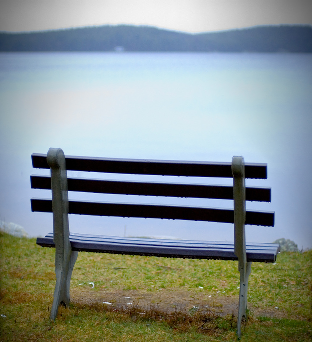
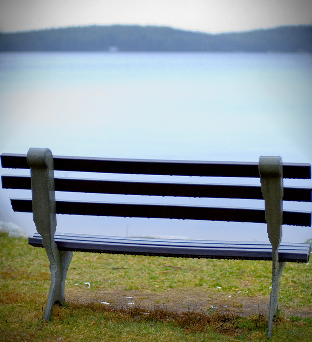
change to L2 gradient, add multistep enlarge

diff --git a/enlarge.py b/enlarge.py
@@ -1,15 +1,7 @@
 import cv2
 import time
 import numpy as np
-from resize import find_seam
-
-def calculate_energy(image):
-    """計算圖像的能量圖，使用 Sobel 算子計算梯度幅值"""
-    gray = cv2.cvtColor(image, cv2.COLOR_BGR2GRAY)
-    sobel_x = cv2.Sobel(gray, cv2.CV_64F, 1, 0, ksize=3)
-    sobel_y = cv2.Sobel(gray, cv2.CV_64F, 0, 1, ksize=3)
-    energy = np.abs(sobel_x) + np.abs(sobel_y)
-    return energy
+from resize import find_seam, show_seam, calculate_energy, compute_energyMap
 
 def add_seams(image, seams):
     """Add multiple seams to the image based on the provided list of seams."""
@@ -17,10 +9,11 @@ def add_seams(image, seams):
     enlarged = np.zeros((rows, cols + len(seams), channels), dtype=image.dtype)
 
     new_seams = np.array([seams.pop()])
+    
     for s in reversed(seams): 
         new_seams[np.where(new_seams >= s)] += 1
         new_seams = np.append(new_seams, s.reshape((1, -1)), axis=0) 
-    
+    # show_seam(image, new_seams)
     for i in range(rows):
         # Sort seams for this row to maintain the correct order of duplication
         sorted_seams = sorted(new_seams, key=lambda x: x[i])
@@ -45,7 +38,7 @@ def find_multiple_seams(image, num_seams):
     seams = []
     temp_image = image.copy()
     for _ in range(num_seams):
-        energy_map = calculate_energy(temp_image)
+        energy_map = compute_energyMap(temp_image)
         seam = find_seam(energy_map)
         seams.append(seam)
         # Remove the seam from the temporary image to avoid selecting the same seam repeatedly
@@ -66,14 +59,20 @@ def remove_seam(image, seam):
 
 def enlarge_image(image, num_seams):
     """Enlarge the image by finding and duplicating multiple seams."""
-
+    h, w, c = image.shape
+    threshold = int(np.floor(w * 0.2))
     # Find multiple seams for removal
-    start = time.time()
-    seams = find_multiple_seams(image, num_seams)
-    print('Time used: {} sec to find multiple seams'.format(time.time() - start))
-    start = time.time()
-    # Add the seams back to enlarge the image
-    enlarged_image = add_seams(image, seams)
-    print('Time used: {} sec to add seams'.format(time.time() - start))
+    
+    while num_seams > 0:
+        start = time.time()
+        x = min(threshold, num_seams)
+        seams = find_multiple_seams(image, x)
+        print('Time used: {} sec to find multiple seams'.format(time.time() - start))
+        start = time.time()
+        # Add the seams back to enlarge the image
+        enlarged_img= add_seams(image, seams)
+        image = enlarged_img
+        print('Time used: {} sec to add seams'.format(time.time() - start))
+        num_seams -= threshold
 
-    return enlarged_image
+    return enlarged_img

diff --git a/resize.py b/resize.py
@@ -8,12 +8,12 @@ import time
 import argparse
 from tqdm import tqdm
 
-def show_seam(img: np.ndarray, seam):
+def show_seam(img: np.ndarray, seams):
     h, w = img.shape[:2]
-    
-    for x, Si in enumerate(seam):
-        y = Si
-        img[x, y, :] = [255, 0, 0]
+    for seam in seams:
+        for x, Si in enumerate(seam):
+            y = Si
+            img[x, y, :] = [255, 0, 0]
     
     plt.imshow(img)
     plt.axis(False)
@@ -23,7 +23,7 @@ def show_seam(img: np.ndarray, seam):
 # @jit
 def remove(img: np.ndarray, seam) -> np.ndarray:
     h, w = img.shape[:2]
-    ret_img = np.zeros((h, w-1, 3), np.int32)
+    ret_img = np.zeros((h, w-1, 3), dtype=img.dtype)
     for i in range(h):
         m = seam[i]
         # print(m)
@@ -73,13 +73,26 @@ def find_seam_energy(energy_map: np.ndarray) -> np.ndarray:
         seam[i] = prev[i+1, seam[i+1]]
     return seam, np.min(dp[h-1])
 
-def compute_energyMap(f: np.ndarray, g: np.ndarray):
+def calculate_energy(image):
+    """計算圖像的能量圖，對每個色彩通道計算梯度幅值並合併"""
+    
+    channels = cv2.split(image)
+    
+    energy = np.zeros(image.shape[:2], dtype=np.float64)
+    
+    for channel in channels:
+        sobel_x = cv2.Sobel(channel, cv2.CV_64F, 1, 0, ksize=3)
+        sobel_y = cv2.Sobel(channel, cv2.CV_64F, 0, 1, ksize=3)
+        energy += np.abs(sobel_x) + np.abs(sobel_y)
+    
+    return energy
 
-    dx = ndi.convolve1d(f, g, axis=0, mode='mirror').sum(axis=2)
-    dy = ndi.convolve1d(f, g, axis=1, mode='mirror').sum(axis=2)
-    ret = np.array(np.abs(dx) + np.abs(dy), dtype=np.int64)
+def compute_energyMap(f: np.ndarray, g: np.ndarray = np.array([-1, 0, 1])):
+
+    dx = ndi.convolve1d(f, g, axis=0, mode='mirror')
+    dy = ndi.convolve1d(f, g, axis=1, mode='mirror')
+    ret = np.sqrt(np.sum(dx ** 2, axis=2) + np.sum(dy ** 2, axis=2))
     return ret
-
 
 @jit 
 def get_forward_seam(I: np.ndarray, mask: np.ndarray = None):
@@ -111,12 +124,12 @@ def get_forward_seam(I: np.ndarray, mask: np.ndarray = None):
 
 
 def delete_vertical(img: np.ndarray, forward: bool):
-
-    f = np.array([1, -2, 1])
+    
+    temp_image = img.copy()
     if forward:
         seam = get_forward_seam(img)
     else :
-        energy_map = compute_energyMap(img, f)
+        energy_map = compute_energyMap(temp_image)
         seam = find_seam(energy_map=energy_map)
     ret = remove(img=img, seam=seam)
     return ret

diff --git a/objRemove.py b/objRemove.py
@@ -29,47 +29,3 @@ def obj_remove(img:np.ndarray, mask: np.ndarray, forward: bool):
         mask = update_mask(mask=mask, seam=seam)
         img = remove(img=img, seam=seam)
     return img
-
-def main():
-    arg = argparse.ArgumentParser()
-    arg.add_argument("-mask", help="Path to mask",required=True)
-    arg.add_argument("-image", help="Path to image", required=True)
-    arg.add_argument("-forward", action="store_true", help="Use forward energy")
-    args = vars(arg.parse_args())
-    mask_path, img_path, forward = args["mask"], args["image"], args["forward"]
-    img = cv.imread(img_path)
-    img = cv.cvtColor(img, cv.COLOR_BGR2RGB)
-    origin = img
-    mask = np.array(cv.imread(mask_path))
-    mask = np.where(mask==0, False, True)
-    f = np.array([1, -2, 1])
-    start_t = time.time()
-    while(np.isin(mask, False).any()):
-        if forward:
-            seam = get_forward_seam(img, mask)
-        else:
-            energyMap = compute_energyMap(img, f)
-            energyMap[mask[:, :, 0] == False] = -1e6
-            seam = find_seam(energyMap)
-        # show_seam(img, seam)
-        mask = update_mask(mask=mask, seam=seam)
-        img = remove(img=img, seam=seam)
-    print('Time used: {} sec'.format(time.time()-start_t))
-    fig, axes = plt.subplots(2, 1, figsize = (9, 10))
-    axes[0].imshow(origin)
-    axes[0].axis(False)
-    axes[0].set_title('Original imaage')
-    axes[1].imshow(img)
-    axes[1].axis(False)
-    axes[1].set_title('After removed object')
-    plt.tight_layout()
-    plt.show()
-    name = img_path.split("/")[1]
-    output_path = "out/" + name; 
-    img = img.astype(np.uint8)
-    img = cv.cvtColor(img, cv.COLOR_RGB2BGR)
-    cv.imwrite(output_path, img)
-
-
-if __name__ == "__main__":
-    main()
